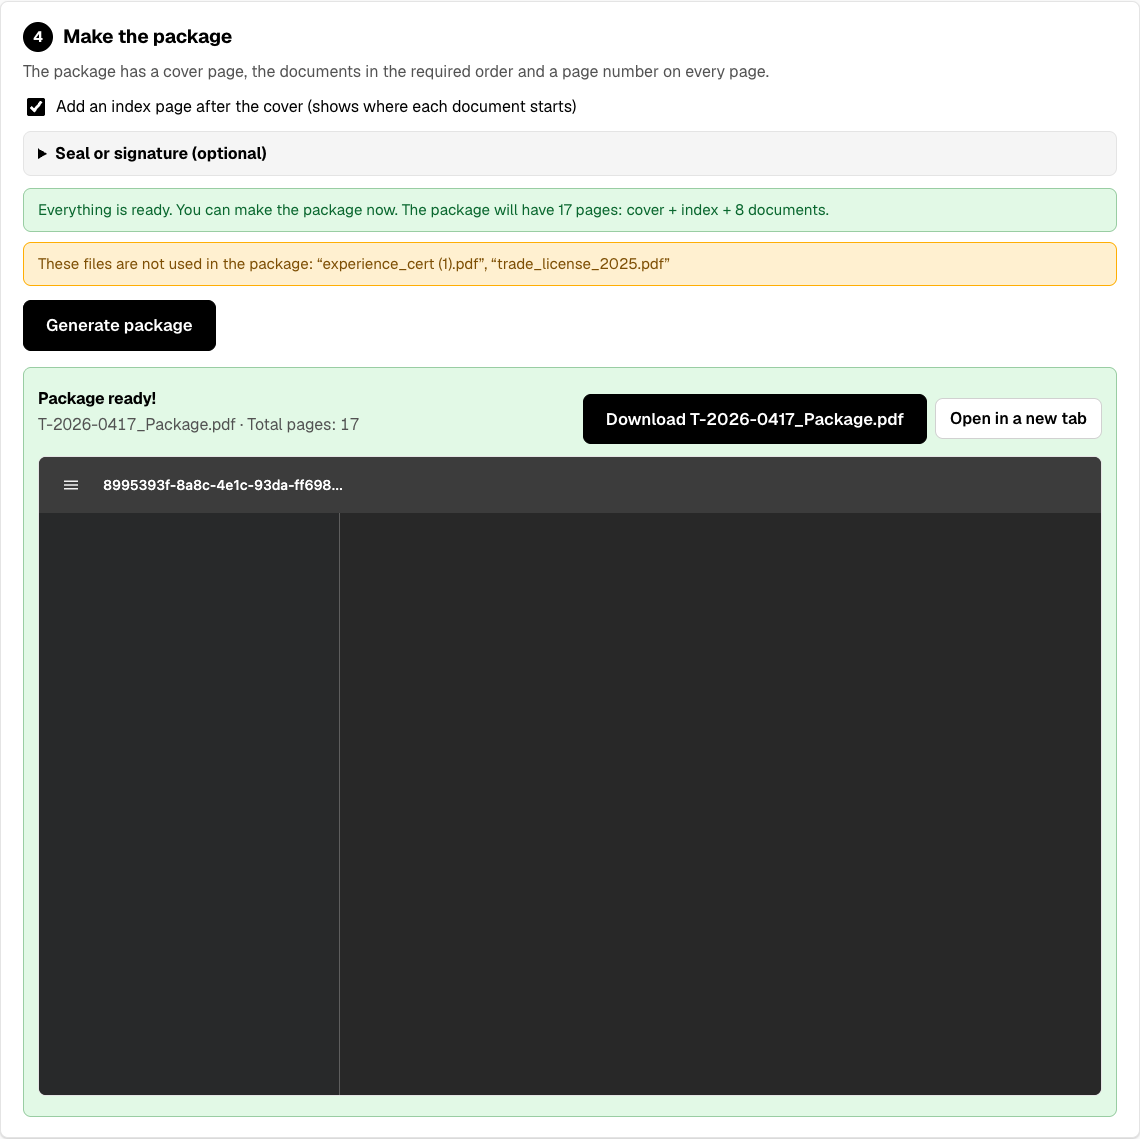
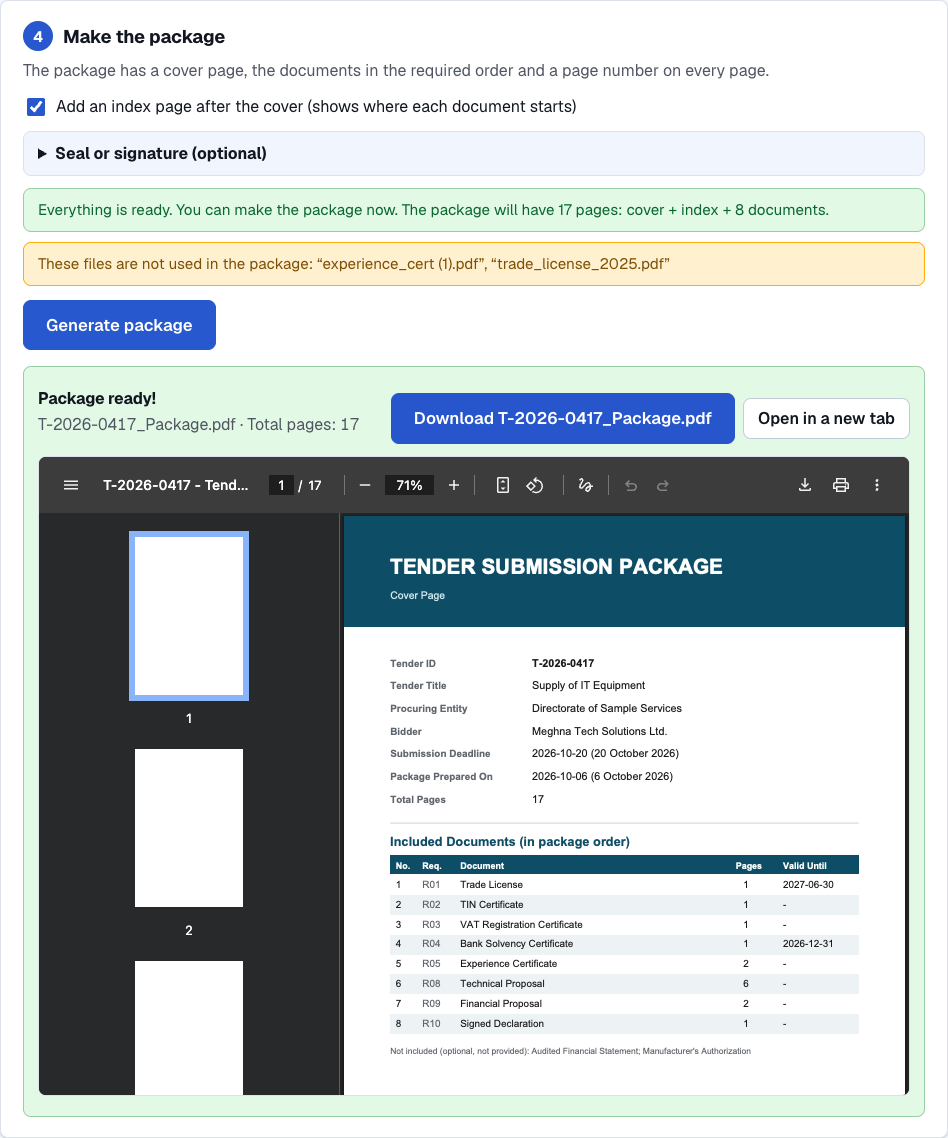
Calmer, more colourful layout: sticky sidebar with progress, status counts and Generate
- Two-column layout on desktop: sticky sidebar shows clickable 4-step progress, tender ID and
  deadline, live status counts and an always-visible Generate package button with a link to the
  problems; the status counts row moved out of step 3
- File list shown as a two-column grid (half the scrolling)
- Indigo primary colour with a gradient header band, soft cool page tint, coloured step numbers;
  text colours kept at AA contrast; sidebar stacks on top on tablets and phones
- Regenerated screenshots and sample-pack output

Prompt: "add some color so its easier to view and also you may change the UI around move cards somewhere else just so it may look easier on the eye and easier to use , right now the interface feels too cluttered"

diff --git a/src/styles.css b/src/styles.css
@@ -1722,3 +1722,231 @@ input[type='date'].bad {
     margin-right: 6px;
   }
 }
+
+/* ---------- v3: colour + sidebar layout (less clutter) ---------- */
+:root {
+  --bg: oklch(0.975 0.01 264);
+  --inset: oklch(0.97 0.012 264);
+  --line: oklch(0.91 0.012 264);
+  --line-strong: oklch(0.84 0.02 264);
+  --brand: oklch(0.5 0.19 264); /* indigo – white text about 6:1 */
+  --brand-2: oklch(0.43 0.19 264);
+  --brand-soft: oklch(0.95 0.03 264);
+  --muted: oklch(0.45 0.02 264);
+  --ink: oklch(0.2 0.02 264);
+}
+main {
+  max-width: 1280px;
+}
+/* Coloured header band */
+.topbar {
+  background: linear-gradient(115deg, oklch(0.32 0.12 264), oklch(0.45 0.17 270));
+  color: #fff;
+  border: 0;
+}
+.topbar .tagline {
+  color: oklch(0.9 0.03 264);
+}
+.topbar .logo {
+  background: #fff;
+  color: var(--brand);
+}
+.topbar .btn {
+  background: oklch(1 0 0 / 0.1);
+  border-color: oklch(1 0 0 / 0.35);
+  color: #fff;
+}
+.topbar .btn:hover:not(:disabled) {
+  background: oklch(1 0 0 / 0.2);
+}
+.topbar .btn.danger-ghost {
+  color: oklch(0.88 0.08 25);
+}
+.topbar .lang {
+  background: oklch(0 0 0 / 0.22);
+}
+.topbar .lang button {
+  color: #fff;
+}
+.topbar .lang button.on {
+  background: #fff;
+  color: var(--brand-2);
+}
+.privacy {
+  margin: 4px 0 14px;
+}
+/* Two columns: sticky sidebar + steps */
+.layout {
+  display: grid;
+  grid-template-columns: 272px minmax(0, 1fr);
+  gap: 20px;
+  align-items: start;
+}
+.side {
+  position: sticky;
+  top: 16px;
+}
+.side-card {
+  background: var(--card);
+  border: 1px solid var(--line);
+  border-radius: var(--radius);
+  box-shadow: var(--shadow);
+  padding: 16px;
+  display: flex;
+  flex-direction: column;
+  gap: 12px;
+}
+.side-label {
+  font-size: 0.72rem;
+  text-transform: uppercase;
+  letter-spacing: 0.05em;
+  color: var(--muted);
+}
+.side .stepper {
+  grid-template-columns: 1fr;
+  gap: 4px;
+  margin: 0;
+}
+.side .stepper li {
+  padding: 0;
+  border: 0;
+  box-shadow: none;
+  background: transparent;
+}
+.side .stepper li a {
+  display: flex;
+  gap: 10px;
+  align-items: center;
+  padding: 8px 10px;
+  border-radius: calc(var(--radius) - 2px);
+  color: var(--ink);
+  text-decoration: none;
+  font-size: 0.92rem;
+  transition-property: background-color;
+  transition-duration: 150ms;
+}
+.side .stepper li a:hover {
+  background: var(--brand-soft);
+}
+.side .stepper .dot {
+  background: var(--brand-soft);
+  color: var(--brand-2);
+}
+.side .stepper li.done a {
+  color: var(--ok);
+  font-weight: 600;
+}
+.side .stepper li.done .dot {
+  background: var(--ok);
+  color: #fff;
+}
+.side-tender {
+  display: grid;
+  gap: 2px;
+  padding: 10px 12px;
+  background: var(--brand-soft);
+  border-radius: calc(var(--radius) - 2px);
+}
+.side-tender .side-label:not(:first-child) {
+  margin-top: 6px;
+}
+.side-counts {
+  list-style: none;
+  padding: 0;
+  margin: 0;
+  display: grid;
+  gap: 4px;
+}
+.sc {
+  display: flex;
+  align-items: center;
+  gap: 8px;
+  padding: 6px 10px;
+  border-radius: calc(var(--radius) - 2px);
+  font-size: 0.88rem;
+  font-variant-numeric: tabular-nums;
+}
+.sc b {
+  margin-left: auto;
+}
+.sc-dot {
+  width: 8px;
+  height: 8px;
+  border-radius: 50%;
+  background: currentColor;
+  flex: none;
+}
+.btn.block {
+  width: 100%;
+  justify-content: center;
+  padding: 11px 14px;
+}
+.side-link {
+  color: var(--bad);
+  font-size: 0.86rem;
+  text-align: center;
+}
+.steps > .card {
+  scroll-margin-top: 16px;
+}
+/* Step headers in colour */
+.card h2 .num {
+  background: var(--brand);
+}
+.card h2 {
+  font-size: 1.15rem;
+}
+/* File list as a two-column grid on wide screens */
+.files {
+  grid-template-columns: repeat(auto-fill, minmax(360px, 1fr));
+}
+.files li {
+  flex-wrap: wrap;
+}
+.factions {
+  margin-left: auto;
+}
+.drop:hover,
+.drop.over {
+  border-color: var(--brand);
+  background: var(--brand-soft);
+}
+.btn:focus-visible,
+select:focus-visible,
+input:focus-visible,
+.drop:focus-visible,
+.side .stepper li a:focus-visible {
+  outline: 2px solid var(--brand);
+  outline-offset: 2px;
+}
+.btn.accent {
+  background: var(--brand-soft);
+  border-color: oklch(0.85 0.06 264);
+  color: var(--brand-2);
+}
+.check input,
+.radio input[type='radio'] {
+  accent-color: var(--brand);
+}
+.spinner {
+  border-top-color: var(--brand);
+}
+@media (max-width: 980px) {
+  .layout {
+    grid-template-columns: 1fr;
+  }
+  .side {
+    position: static;
+  }
+  .side .stepper {
+    grid-template-columns: repeat(2, 1fr);
+  }
+}
+@media (max-width: 480px) {
+  .side .stepper {
+    grid-template-columns: 1fr;
+  }
+  .files {
+    grid-template-columns: 1fr;
+  }
+}

diff --git a/src/App.tsx b/src/App.tsx
@@ -702,7 +702,7 @@ export default function App() {
     () => {
       const mm = gsap.matchMedia()
       mm.add(MOTION_OK, () => {
-        gsap.from('.topbar, .stepper li, main > .card', {
+        gsap.from('.topbar, .side-card, .steps > .card', {
           autoAlpha: 0,
           y: 14,
           duration: 0.45,
@@ -795,15 +795,52 @@ export default function App() {
         )}
         {area('top')}
 
-        <ol className="stepper" aria-label={T.howItWorks}>
-          {T.steps.map((s, i) => (
-            <li key={i} className={stepDone[i] ? 'done' : ''}>
-              <span className="dot">{stepDone[i] ? '✓' : num(i + 1, lang)}</span>
-              <span>{s}</span>
-            </li>
-          ))}
-        </ol>
 
+
+        <div className="layout">
+          <aside className="side" aria-label={T.summary}>
+            <div className="side-card">
+              <div className="side-label">{T.progress}</div>
+              <ol className="stepper" aria-label={T.howItWorks}>
+                {T.steps.map((s, i) => (
+                  <li key={i} className={stepDone[i] ? 'done' : ''}>
+                    <a href={`#step${i + 1}`}>
+                      <span className="dot">{stepDone[i] ? '✓' : num(i + 1, lang)}</span>
+                      <span>{s}</span>
+                    </a>
+                  </li>
+                ))}
+              </ol>
+              {project && (
+                <div className="side-tender">
+                  <div className="side-label">{T.tenderId}</div>
+                  <div className="strong">{project.tender.tender_id}</div>
+                  <div className="side-label">{T.deadline}</div>
+                  <div>{formatDate(deadline, lang)}</div>
+                </div>
+              )}
+              {project && (
+                <ul className="side-counts" aria-live="polite">
+                  {(['ok', 'missing', 'expiry_needed', 'expired', 'not_provided'] as StatusCode[]).map((st) => (
+                    <li key={st} className={`sc st-${st}`}>
+                      <span className="sc-dot" aria-hidden />
+                      <span>{T.statuses[st]}</span>
+                      <b>{num(counts[st], lang)}</b>
+                    </li>
+                  ))}
+                </ul>
+              )}
+              <button className="btn primary block" onClick={generate} disabled={!project || blocking.length > 0 || busy !== null}>
+                {busy === 'build' ? T.generating : T.generate}
+              </button>
+              {project && blocking.length > 0 && (
+                <a className="side-link" href="#step4">
+                  {T.problemsLeft(blocking.length)}
+                </a>
+              )}
+            </div>
+          </aside>
+          <div className="steps">
         {/* ---------------- Step 1 ---------------- */}
         <section className="card" id="step1">
           <h2>
@@ -975,13 +1012,7 @@ export default function App() {
                   {T.exportCsv}
                 </button>
               </div>
-              <div className="counts" aria-live="polite">
-                {(['ok', 'missing', 'expiry_needed', 'expired', 'not_provided'] as StatusCode[]).map((s) => (
-                  <span key={s} className={`count st-${s}`}>
-                    {T.statuses[s]}: <b>{num(counts[s], lang)}</b>
-                  </span>
-                ))}
-              </div>
+
               <details className="ai">
                 <summary>{T.aiTitle}</summary>
                 <p className="help small">{T.aiHelp}</p>
@@ -1271,6 +1302,8 @@ export default function App() {
             </div>
           )}
         </section>
+          </div>
+        </div>
       </main>
 
       <footer className="foot muted small">{T.appTitle} · MIT License · pdf-lib · pdf.js</footer>

diff --git a/src/i18n.ts b/src/i18n.ts
@@ -98,6 +98,8 @@ const en = {
   useThisDate: 'Use this date',
   deadlineIs: 'Deadline',
   summary: 'Summary',
+  progress: 'Progress',
+  problemsLeft: (n: number) => (n === 1 ? '1 problem to fix – see step 4' : `${n} problems to fix – see step 4`),
   optionalHint: 'Optional – you can leave this empty.',
   clearOptionalHint: 'This document is optional. Clear the file to leave it out.',
   addFilesFirst: 'Add PDF files in step 2 to match them here.',
@@ -285,6 +287,8 @@ const bn: Dict = {
   useThisDate: 'এই তারিখ ব্যবহার করুন',
   deadlineIs: 'শেষ তারিখ',
   summary: 'সারসংক্ষেপ',
+  progress: 'অগ্রগতি',
+  problemsLeft: (n: number) => `${d(n)}টি সমস্যা ঠিক করতে হবে – ধাপ ৪ দেখুন`,
   optionalHint: 'ঐচ্ছিক – খালি রাখা যাবে।',
   clearOptionalHint: 'এই নথিটি ঐচ্ছিক। বাদ দিতে ফাইলটি মুছে দিন।',
   addFilesFirst: 'এখানে মেলাতে ধাপ ২-এ PDF ফাইল যোগ করুন।',
